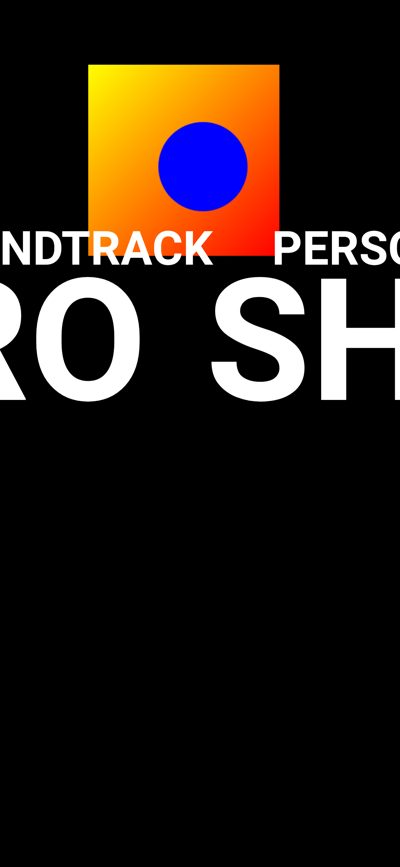
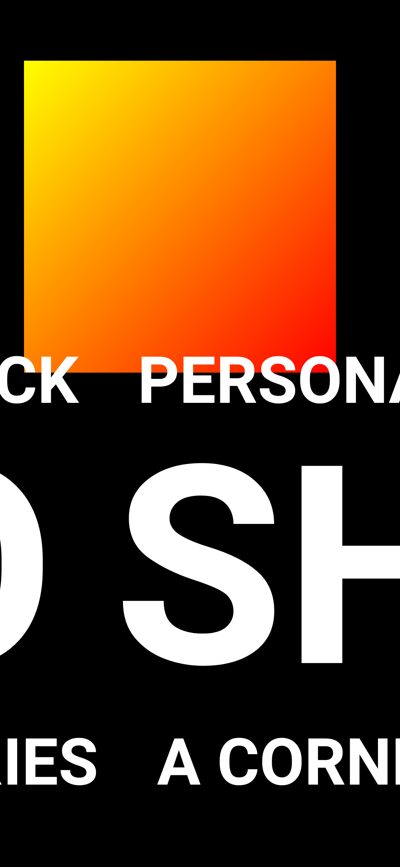
Full-screen ambient now playing, also on the lock screen
- The ambient view now scales to the whole screen height: larger art,
  then album, artist and song in giant scrolling capitals
- LockScreenActivity shows it over the keyguard when the screen turns
  off while music plays; swipe up to unlock, controls work while
  locked, and it closes itself once the phone is unlocked
- Settings > lock screen toggles it and asks for the display-over-apps
  permission Android needs for starting a screen from the background

Claude-Session: https://claude.ai/code/session_012cQcLUpgNhzgQiVJLADHfJ

diff --git a/zune/src/main/java/dev/zunehd/NowPlayingView.kt b/zune/src/main/java/dev/zunehd/NowPlayingView.kt
@@ -39,6 +39,19 @@ import kotlin.math.min
 class NowPlayingView(ctx: Context) : View(ctx) {
     var onClose: (() -> Unit)? = null
 
+    /** Swipe up; on the lock screen this unlocks. */
+    var onSwipeUp: (() -> Unit)? = null
+
+    /** On the lock screen: start in the ambient view, stay in it while paused, return to it sooner. */
+    var lockScreen = false
+        set(v) {
+            field = v
+            if (v) {
+                ambient = 1f
+                ambientTarget = 1f
+            }
+        }
+
     private val u = Zune.u(ctx)
     private val prefs = Prefs(ctx)
     private var accent = prefs.accent
@@ -54,8 +67,13 @@ class NowPlayingView(ctx: Context) : View(ctx) {
     private val titleP = text(20.2f, Typeface.create("sans-serif-medium", Typeface.NORMAL))
     private val nextP = text(5.3f, Zune.regular(ctx), 0xFFD8D8D8.toInt())
     private val timeP = text(11f)
+    // Ambient text; sized to the screen's height in onSizeChanged.
     private val giant1 = text(32f)
     private val giant2 = text(116f)
+    private val giant3 = text(32f)
+    private var amb1 = 0f
+    private var amb2 = 0f
+    private var amb3 = 0f
 
     private val bmp = Paint(Paint.FILTER_BITMAP_FLAG or Paint.ANTI_ALIAS_FLAG)
     private val fill = Paint(Paint.ANTI_ALIAS_FLAG)
@@ -113,13 +131,23 @@ class NowPlayingView(ctx: Context) : View(ctx) {
         blur = Player.blurredArt
         upNext = Player.upNext(3)
         actions = Player.customActions().take(4).map { it to Player.customIcon(context, it)?.mutate()?.apply { setTint(Zune.WHITE) } }
-        if (!Player.isPlaying) ambientTarget = 0f
+        if (!Player.isPlaying && !lockScreen) ambientTarget = 0f
         invalidate()
     }
 
     override fun onSizeChanged(w: Int, h: Int, oldw: Int, oldh: Int) {
         fullArt.set(27 * u, 154 * u, 192 * u, 319 * u)
-        ambArt.set(60 * u, 44 * u, 60 * u + 130 * u, 174 * u)
+        // The ambient view fills the whole screen whatever its height: large art near the top,
+        // then the album, the artist (enormous) and the song in capitals, scrolling right.
+        val side = min(w * 0.78f, h * 0.38f)
+        val left = (w - side) / 2 - w * 0.05f
+        ambArt.set(left, h * 0.07f, left + side, h * 0.07f + side)
+        giant1.textSize = h * 0.075f
+        giant2.textSize = h * 0.32f
+        giant3.textSize = h * 0.075f
+        amb1 = ambArt.bottom + h * 0.035f
+        amb2 = amb1 + h * 0.3f
+        amb3 = amb2 + h * 0.14f
     }
 
     private fun ease(t: Float) = 1 - (1 - t.coerceIn(0f, 1f)).let { it * it * it }
@@ -157,7 +185,8 @@ class NowPlayingView(ctx: Context) : View(ctx) {
 
         val idle = now - lastTouch
         if (controlsTarget == 1f && idle > 4000 && seekPreview < 0) controlsTarget = 0f
-        if (Player.isPlaying && Player.hasTrack && idle > 9000 && controls < 0.01f && seekPreview < 0) ambientTarget = 1f
+        val settle = if (lockScreen) 5000 else 9000
+        if ((Player.isPlaying || lockScreen) && Player.hasTrack && idle > settle && controls < 0.01f && seekPreview < 0) ambientTarget = 1f
         // Settling into ambient is slow; tapping back to the full view is near instant.
         ambient += (ambientTarget - ambient) * min(1f, dt * (if (ambientTarget > ambient) 3f else 14f))
         if (abs(ambientTarget - ambient) < 0.005f) ambient = ambientTarget
@@ -229,9 +258,9 @@ class NowPlayingView(ctx: Context) : View(ctx) {
     /** Album and artist in giant capitals, scrolling slowly rightwards over the art. */
     private fun drawAmbient(c: Canvas, w: Float, seconds: Float) {
         val alpha = (255 * ambient).toInt()
-        val y1 = ambArt.bottom + 6 * u
-        scroll(c, album.ifEmpty { title }.uppercase(), giant1, y1, 16 * u, seconds, w, alpha)
-        scroll(c, artist.ifEmpty { "ZUNE" }.uppercase(), giant2, y1 + 92 * u, 11 * u, seconds, w, alpha)
+        scroll(c, album.ifEmpty { title }.uppercase(), giant1, amb1, 16 * u, seconds, w, alpha)
+        scroll(c, artist.ifEmpty { "ZUNE" }.uppercase(), giant2, amb2, 11 * u, seconds, w, alpha)
+        if (album.isNotEmpty()) scroll(c, title.uppercase(), giant3, amb3, 20 * u, seconds, w, alpha)
     }
 
     private fun scroll(c: Canvas, s: String, p: TextPaint, y: Float, speed: Float, seconds: Float, w: Float, alpha: Int) {
@@ -372,7 +401,7 @@ class NowPlayingView(ctx: Context) : View(ctx) {
 
     // ---- touch ----
 
-    private enum class Mode { NONE, SEEK, SWIPE, PULL }
+    private enum class Mode { NONE, SEEK, SWIPE, PULL, UP }
 
     private var mode = Mode.NONE
     private var downX = 0f
@@ -399,13 +428,13 @@ class NowPlayingView(ctx: Context) : View(ctx) {
             }
             MotionEvent.ACTION_MOVE -> {
                 if (mode == Mode.NONE && (abs(dx) > slop || abs(dy) > slop)) {
-                    mode = if (abs(dx) > abs(dy)) Mode.SWIPE else if (dy > 0) Mode.PULL else Mode.NONE
+                    mode = if (abs(dx) > abs(dy)) Mode.SWIPE else if (dy > 0) Mode.PULL else Mode.UP
                 }
                 when (mode) {
                     Mode.SEEK -> seekPreview = seekAt(e.x)
                     Mode.SWIPE -> swipe = dx
                     Mode.PULL -> pull = max(0f, dy) * 0.5f
-                    Mode.NONE -> {}
+                    Mode.UP, Mode.NONE -> {}
                 }
             }
             MotionEvent.ACTION_UP -> {
@@ -419,6 +448,7 @@ class NowPlayingView(ctx: Context) : View(ctx) {
                         settle()
                     }
                     Mode.PULL -> if (dy > 120 * u) onClose?.invoke() else settle()
+                    Mode.UP -> if (dy < -80 * u) onSwipeUp?.invoke()
                     Mode.NONE -> tap(e.x, e.y)
                 }
                 mode = Mode.NONE

diff --git a/zune/src/main/java/dev/zunehd/NowPlayingActivity.kt b/zune/src/main/java/dev/zunehd/NowPlayingActivity.kt
@@ -3,8 +3,8 @@ package dev.zunehd
 import android.app.Activity
 import android.os.Bundle
 
-class NowPlayingActivity : Activity(), Player.Listener {
-    private lateinit var view: NowPlayingView
+open class NowPlayingActivity : Activity(), Player.Listener {
+    protected lateinit var view: NowPlayingView
 
     override fun onCreate(savedInstanceState: Bundle?) {
         super.onCreate(savedInstanceState)
@@ -41,5 +41,74 @@ class NowPlayingActivity : Activity(), Player.Listener {
         super.finish()
         @Suppress("DEPRECATION")
         overridePendingTransition(R.anim.zune_none, R.anim.zune_none)
+    }
+}
+
+/**
+ * Now playing on the lock screen, like the Zune HD's: the ambient art and giant scrolling text,
+ * shown over the keyguard when the screen goes off while music plays. Swipe up to unlock; the
+ * controls work without unlocking. It lives in its own task so unlocking returns to whatever
+ * app you were using.
+ */
+class LockScreenActivity : NowPlayingActivity() {
+    override fun onCreate(savedInstanceState: Bundle?) {
+        super.onCreate(savedInstanceState)
+        if (android.os.Build.VERSION.SDK_INT >= 27) {
+            setShowWhenLocked(true)
+        } else {
+            @Suppress("DEPRECATION")
+            window.addFlags(android.view.WindowManager.LayoutParams.FLAG_SHOW_WHEN_LOCKED)
+        }
+        view.lockScreen = true
+        view.onClose = { finish() }
+        view.onSwipeUp = ::unlock
+    }
+
+    override fun onNewIntent(intent: android.content.Intent?) {
+        super.onNewIntent(intent)
+        view.lockScreen = true
+    }
+
+    private fun unlock() {
+        val km = getSystemService(android.app.KeyguardManager::class.java)
+        if (!km.isKeyguardLocked) {
+            finish()
+            return
+        }
+        km.requestDismissKeyguard(this, object : android.app.KeyguardManager.KeyguardDismissCallback() {
+            override fun onDismissSucceeded() = finish()
+        })
+    }
+
+    /** Unlocked any way at all (fingerprint, face, PIN): it has done its job. */
+    private val unlocked = object : android.content.BroadcastReceiver() {
+        override fun onReceive(c: android.content.Context, i: android.content.Intent) = finish()
+    }
+
+    override fun onStart() {
+        super.onStart()
+        registerReceiver(unlocked, android.content.IntentFilter(android.content.Intent.ACTION_USER_PRESENT))
+    }
+
+    override fun onStop() {
+        super.onStop()
+        runCatching { unregisterReceiver(unlocked) }
+    }
+
+    @Deprecated("Deprecated in Java")
+    override fun onBackPressed() = finish()
+
+    companion object {
+        /** Put now playing on the lock screen if it's on, music is playing and Android allows it. */
+        fun showIfPlaying(ctx: android.content.Context) {
+            if (!Prefs(ctx).lockScreen || !Player.isPlaying) return
+            if (android.os.Build.VERSION.SDK_INT >= 29 && !android.provider.Settings.canDrawOverlays(ctx)) return
+            runCatching {
+                ctx.startActivity(
+                    android.content.Intent(ctx, LockScreenActivity::class.java)
+                        .addFlags(android.content.Intent.FLAG_ACTIVITY_NEW_TASK or android.content.Intent.FLAG_ACTIVITY_NO_ANIMATION),
+                )
+            }
+        }
     }
 }

diff --git a/zune/src/main/java/dev/zunehd/SettingsActivity.kt b/zune/src/main/java/dev/zunehd/SettingsActivity.kt
@@ -12,6 +12,25 @@ class SettingsActivity : ZuneActivity() {
     private val backgrounds = listOf("black", "art", "zune")
     private val backgroundNames = mapOf("black" to "black", "art" to "album art (blurred)", "zune" to "zune glow")
 
+    private fun lockStatus(): String = when {
+        !prefs.lockScreen -> "off"
+        android.os.Build.VERSION.SDK_INT >= 29 && !Settings.canDrawOverlays(this) -> "on, but needs display over other apps: tap to allow"
+        else -> "on: now playing shows when you wake the phone"
+    }
+
+    private fun toggleLockScreen() {
+        if (prefs.lockScreen && android.os.Build.VERSION.SDK_INT >= 29 && !Settings.canDrawOverlays(this)) {
+            // Android only lets an app open a screen from the background with this permission.
+            startActivity(Intent(Settings.ACTION_MANAGE_OVERLAY_PERMISSION, android.net.Uri.parse("package:$packageName")))
+            return
+        }
+        prefs.lockScreen = !prefs.lockScreen
+        if (prefs.lockScreen && android.os.Build.VERSION.SDK_INT >= 29 && !Settings.canDrawOverlays(this)) {
+            startActivity(Intent(Settings.ACTION_MANAGE_OVERLAY_PERMISSION, android.net.Uri.parse("package:$packageName")))
+        }
+        refresh()
+    }
+
     private fun pickBackground() {
         val labels = backgrounds.map { backgroundNames.getValue(it) }.toTypedArray()
         android.app.AlertDialog.Builder(this, android.R.style.Theme_Material_Dialog_Alert)
@@ -61,6 +80,7 @@ class SettingsActivity : ZuneActivity() {
                 Player.connect()
                 refresh()
             },
+            Row("lock screen", lockStatus()) { toggleLockScreen() },
             Row("background", backgroundNames[prefs.background] ?: prefs.background) { pickBackground() },
             Row("accent", Zune.ACCENT_NAMES[prefs.accentIndex], highlight = true) {
                 prefs.accentIndex = prefs.accentIndex + 1

diff --git a/zune/src/main/java/dev/zunehd/Player.kt b/zune/src/main/java/dev/zunehd/Player.kt
@@ -56,6 +56,9 @@ object Player {
         app = ctx.applicationContext
         history = TrackHistory(app)
         manager = app.getSystemService(MediaSessionManager::class.java)
+        app.registerReceiver(object : android.content.BroadcastReceiver() {
+            override fun onReceive(c: Context, i: Intent) = LockScreenActivity.showIfPlaying(app)
+        }, android.content.IntentFilter(Intent.ACTION_SCREEN_OFF))
         connect()
     }
 

diff --git a/zune/src/main/java/dev/zunehd/Prefs.kt b/zune/src/main/java/dev/zunehd/Prefs.kt
@@ -56,6 +56,11 @@ class Prefs(ctx: Context) {
         e.apply()
     }
 
+    /** Show now playing on the lock screen while music plays. */
+    var lockScreen: Boolean
+        get() = sp.getBoolean("lock_screen", true)
+        set(v) = sp.edit().putBoolean("lock_screen", v).apply()
+
     var musicPage: Int
         get() = sp.getInt("music_page", 0)
         set(v) = sp.edit().putInt("music_page", v).apply()

diff --git a/zune/README.md b/zune/README.md
@@ -27,7 +27,8 @@ so music feels like part of the device the way it did on the Zune.
 | Pivot headers that slide with the content, rows sliding in | Music: queue · history · library · search; apps: all · games |
 | Lists broken up by letter tiles | Apps list, compact, with a letter strip on the right to slide through the alphabet |
 | Now playing: circled back arrow, ARTIST and ALBUM in bold capitals, art with the album up its spine, times, the song and the next three, circled extras | Same, with Tidal's shuffle/repeat/favourite as the extras; tap the art for previous / play / next |
-| Left alone, now playing becomes the art with the album and artist in giant capitals scrolling right | Same, after 9 s; tap to come back |
+| Left alone, now playing becomes the art with the album and artist in giant capitals scrolling right | Same, after 9 s, filling the whole screen (album, artist, song); tap to come back |
+| Now playing on the lock screen | When the screen goes off while music plays, the ambient now playing waits on the lock screen; swipe up to unlock (settings > lock screen) |
 | Media button overlay with song, transport and volume | Press a volume key |
 | (new) news | The Google Discover feed, slid in over home like on the Pixel Launcher |
 | Tilt on press, staggered slide transitions | On every list item and menu word |
@@ -72,6 +73,8 @@ in, install the debug APK (`./gradlew :zune:assembleDebug`,
    walks you through it: open **App info**, tap ⋮ in the top corner, **Allow restricted
    settings**, then turn on notification access. Installing with `adb install` avoids the block.
 3. **settings > default home** to make it your home screen.
+   For now playing on the lock screen, **settings > lock screen** asks for "display over other
+   apps", which Android requires before an app can open a screen from the background.
 4. **settings > home screen** to show, hide, reorder and rename menu items, add any app to the
    menu, choose the app behind items such as **videos**, hide the play button or change the text
    size. **reset to default** brings back the Zune menu. Long-pressing a menu word also chooses
@@ -100,6 +103,7 @@ Microsoft's open-source Selawik (Segoe UI metric-compatible) is a good choice.
 - `FeedClient.kt`: the Google feed overlay connection
 - `MusicActivity.kt`, `LibraryPage.kt`: queue, history, library, search
 - `NowPlayingView.kt`: the now playing screen, fully custom drawn
+- `NowPlayingActivity.kt`: now playing, and `LockScreenActivity` for the lock screen
 - `PivotView.kt`, `Views.kt`, `Ui.kt`: pivot, status strip, quick controls, mini player, backdrop, tilt, motion
 - `HomeEditActivity.kt`: home screen customisation and reset
 - `Logic.kt`: Android-free logic covered by unit tests
